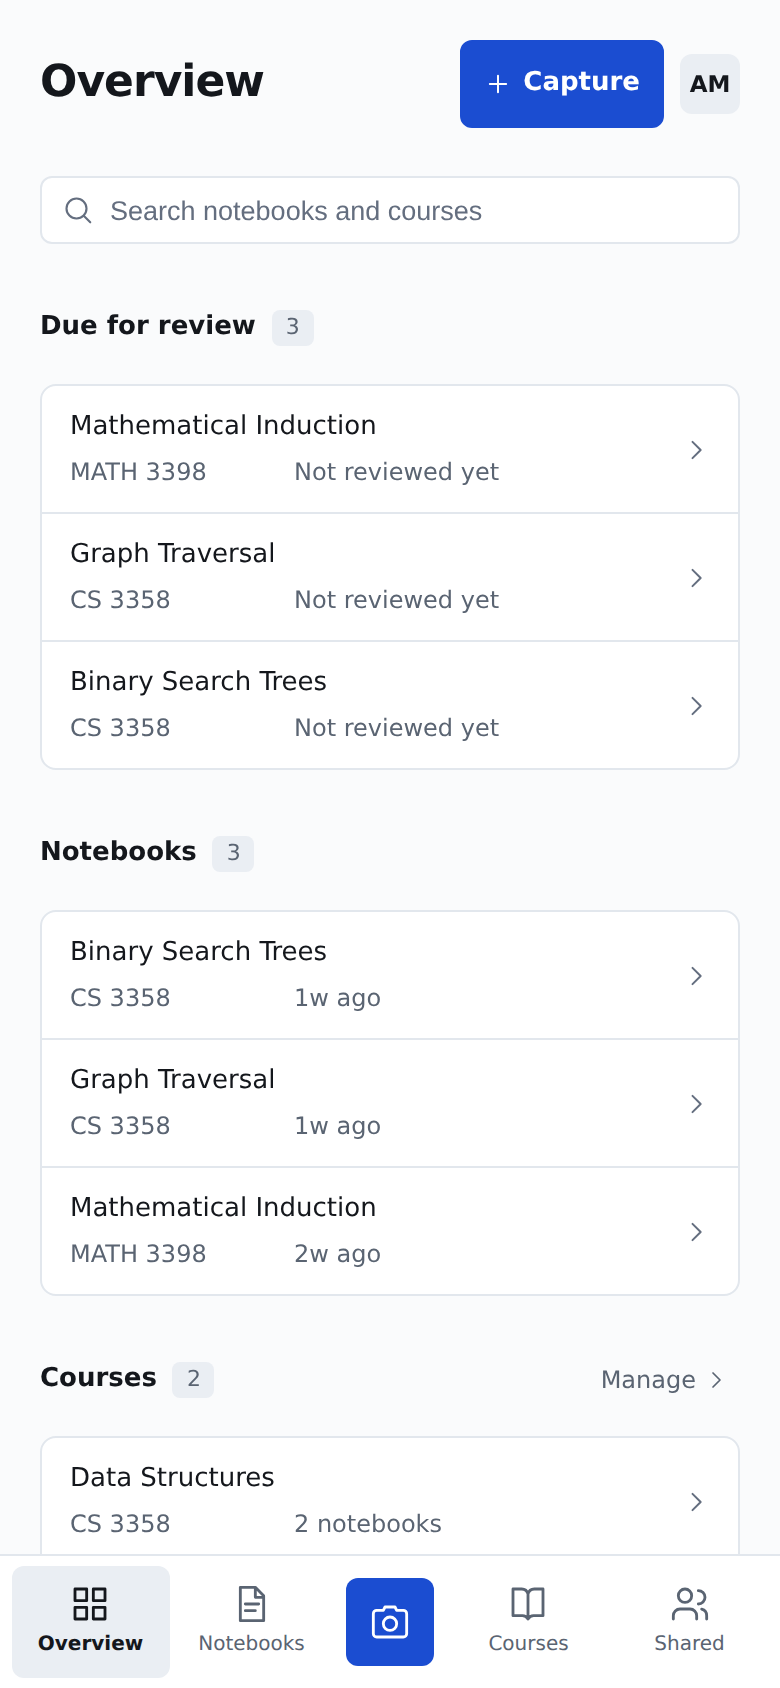
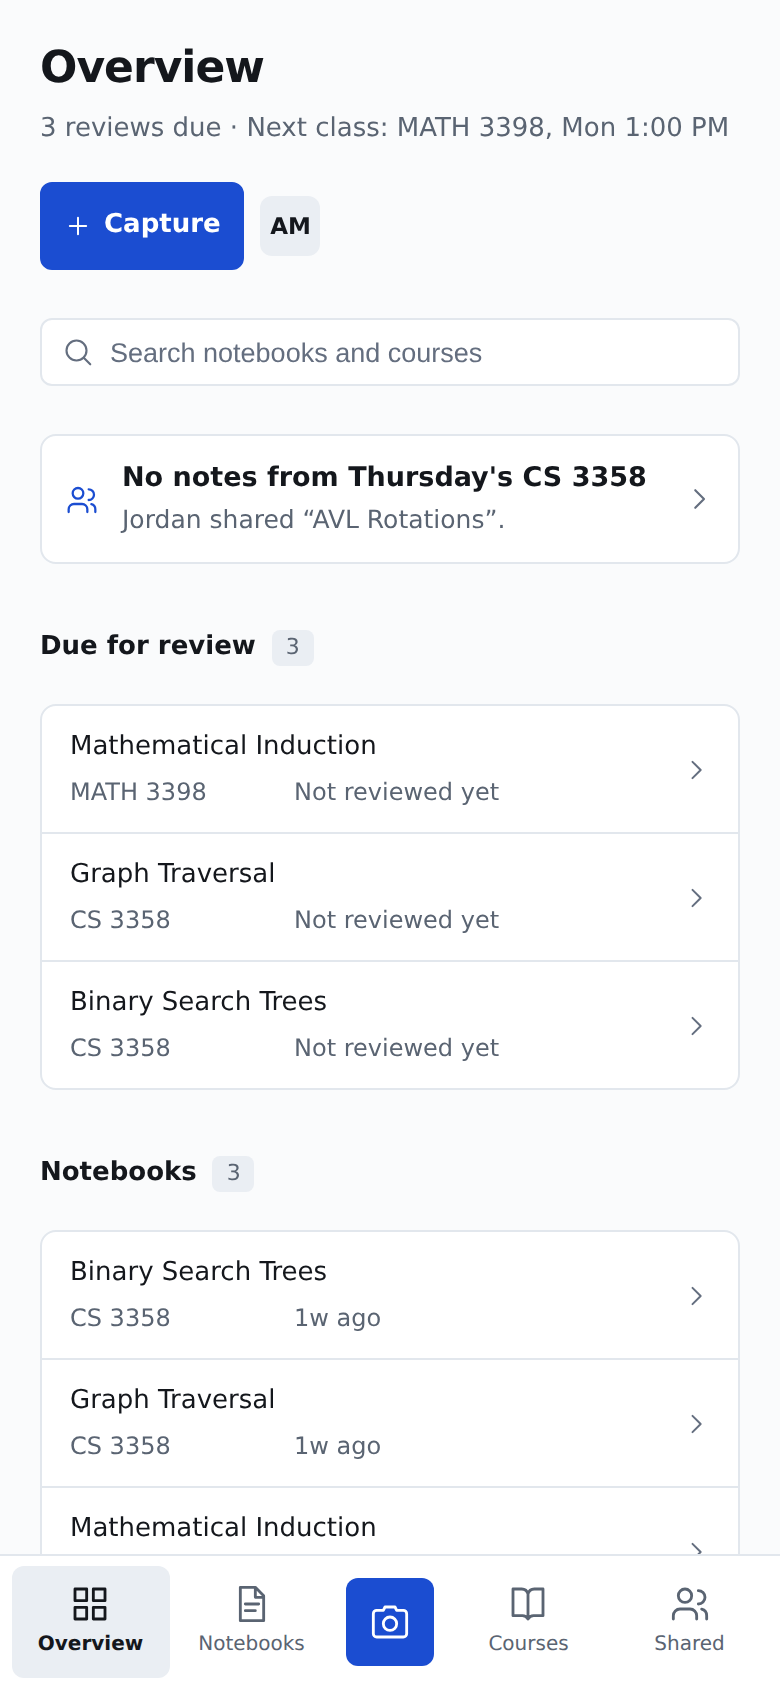
docs: record the study-feature contracts, verification and new screenshots
- SHARED_CONTRACTS.md: note sources, note editing, class times, catch-up
  gaps, quiz attempts, reminders, and the new demo data, all approved as
  additive and optional.
- VERIFICATION.md: what was checked here (tests, local PostgreSQL, browser
  walkthroughs, three time zones), what still needs a device or the live API,
  and the pre-existing hydration warning on desktop Overview.
- README: features, test coverage and roadmap updated; screenshots and the
  demo GIF re-recorded to show photo links, catch-up and the today line.

diff --git a/README.md b/README.md
@@ -62,9 +62,11 @@ These are results on 60 claims I held back and didn't look at while building the
 ## Features
 
 - **Capture:** camera with blur and exposure checks. Up to six photos per lecture, analyzed together into one set of notes.
-- **Notebooks:** your originals stay separate from anything the AI wrote. You can test yourself before revealing the notes.
-- **Ask and quiz:** ask questions about a lecture or generate a quiz from it.
-- **Review:** after each review you say how well you remembered it, and it schedules the next one for 4 hours, 1 day or 3 days later.
+- **Auto-filing:** add when each class meets, and photos taken during class go straight into that course.
+- **Notebooks:** your originals stay separate from anything the AI wrote. Every note line links to the photo it came from, and you can fix anything the AI misread.
+- **Ask and quiz:** ask questions about a lecture or generate a quiz from it. Your scores are saved, you can retry just the questions you missed, and a quiz counts as a review.
+- **Review:** test yourself before the notes are shown, then say how well you remembered. The next review is 4 hours, 1 day or 3 days later, and the phone app reminds you when it's due.
+- **Catch-up:** see which classes this week you have no notes from, and what your friends shared from them.
 - **Sharing:** add friends and share a notebook with them. Only accepted friends in the same course can see it, and they can save their own copy.
 - **Accounts:** email confirmation, sign-in, password reset, profiles, courses and enrollment.
 - **Demo mode:** a filled-in demo so you can try it without any accounts or cloud setup.
@@ -176,8 +178,9 @@ The test suite covers:
 
 - Signed-token rejection, request validation, access gates, and safe errors
 - Upload recovery and session races
-- Review scheduling and capture-quality checks
-- AI result validation, multi-photo analysis, and transcript support checking
+- Review scheduling, reminder timing, and capture-quality checks
+- AI result validation, multi-photo analysis, transcript support checking, and linking notes to photos
+- Class-time detection across time zones, weekly catch-up, and quiz scoring
 - Ambiguous course matching
 
 **Database isolation tests** run against a disposable local PostgreSQL database, using the restricted runtime login. They are skipped unless you pass the URL explicitly:
@@ -220,8 +223,9 @@ chalkwise/
 - [x] Friend-based notebook sharing
 - [x] AWS backend with Cognito, RLS-protected PostgreSQL, and private S3
 - [ ] Live AWS provisioning and Supabase cutover
+- [x] Review reminders, editable notes linked to their photos, class-time filing, weekly catch-up, and saved quizzes
 - [ ] Durable resume after the app closes, and background processing
-- [ ] Review notifications
+- [ ] A review schedule fitted to real review history (the model and fitting script are ready; it needs pilot data)
 
 ## Documentation
 

diff --git a/SHARED_CONTRACTS.md b/SHARED_CONTRACTS.md
@@ -40,6 +40,41 @@ adapter. See `docs/architecture/FULL_STACK_PLAN.md` for scope and verification g
 - Mock mode opens a populated demo workspace. Mock profile/enrollment changes are
   in-memory only. Mock capture uploads and AI calls still reject, never fake success.
 
+### Study features (September 2026, approved)
+
+Migration `server/migrations/003_study_features.sql` is additive and not applied
+anywhere yet. Every new type field is optional, so existing callers are unchanged.
+
+- **Note sources.** `Lecture.sources` / `LectureAnalysis.sources` (`NoteSources`) give,
+  for each line of keyConcepts, importantPoints, assignments and examMentions, the
+  1-based original photo it came from, or null. The server computes them by matching
+  each line against each photo's transcript (`sourcePhotoOf` in `src/lib/grounding.ts`).
+  The AI result contract is unchanged, and the organizer cannot supply sources.
+  Misaligned sources are dropped, never guessed.
+- **Editing.** `updateLecture(id, LectureEdit)` → PUT /v1/lectures/:id, owner only.
+  It sets `Lecture.editedAt`. Originals are never modified. Copies keep sources and the
+  original photo order.
+- **Class times.** `CourseMeeting { courseId, weekday (0 = Sunday), start, end }` in
+  local "HH:MM". `getMeetings()` → GET /v1/meetings. `setCourseMeetings(courseId,
+  meetings)` → PUT /v1/courses/:id/meetings replaces one course's times and requires
+  enrollment. A capture is filed under the class in session (10 minutes before to 30
+  minutes after) when the board shows no matching course code.
+- **Catch-up.** `getCatchupFeed()` also returns `gaps`: classes in the past seven days
+  with none of the student's own notes, and friends' shared notes from them. The wording
+  is "no notes from", never "missed".
+- **Quizzes.** `QuizAttempt { id, lectureId, attemptedAt, score, total, missed }`.
+  `recordQuizAttempt` → POST and `getQuizAttempts` → GET /v1/lectures/:id/quiz-attempts,
+  owner only and append-only. A full quiz on an owned notebook records a review
+  (all correct: easy; 60% or more: good; otherwise again). Retakes and retries of
+  missed questions are practice and record nothing.
+- **Reminders.** `expo-notifications` schedules local notifications on iOS and Android
+  only, opt-in, between 9:00 and 21:00, grouped within an hour, at most 30. There is no
+  push server or device token. Tapping a reminder opens its notebook.
+- **Demo data.** Mock mode now returns two bundled sample board photos for the Binary
+  Search Trees notebook (so `getMaterials` is no longer always empty in mock), sample
+  class times, and one read-only demo classmate note dated to the latest Data Structures
+  class. Mock AI calls still reject.
+
 The sections below are the preserved legacy Supabase implementation contracts.
 
 Read this file before frontend or backend work. These are the current contracts,

diff --git a/docs/architecture/VERIFICATION.md b/docs/architecture/VERIFICATION.md
@@ -43,3 +43,39 @@ This is an implemented small-pilot foundation with automated regression checks, 
 The current processing flow handles one photo. Multi-photo processing, durable capture recovery after process termination, background notifications and hardware pairing are deferred. AI output is validated structurally and prompted to stay within the source; model accuracy still needs evaluation against representative student material.
 
 Complete the live isolation test, cloud acceptance, dependency review, backup/restore rehearsal and physical-device checklist before inviting real users onto the new backend.
+
+## Study features (September 2026)
+
+Reminders, editable notes linked to photos, class-time filing, weekly catch-up and saved
+quizzes.
+
+Verified in this environment:
+
+- `npm run check`: typecheck of app and server, 65 app and 49 server tests, formatting.
+- Database tests against disposable local PostgreSQL 16 with migrations 001–003 and
+  the restricted runtime login. They cover owner-only class times, note edits and quiz
+  attempts, and repository round-trips for sources, edits, class times and attempts.
+- Web demo in Chromium at phone and desktop width, light and dark: note-to-photo chips,
+  the photo viewer, editing and saving notes, the class-times editor with loosely typed
+  times, the Overview catch-up card, CatchUp "This week", copying a classmate note, the
+  Profile reminders setting, and the Overview today line. No console errors, except the
+  known hydration warning below.
+- Planner, schedule and catch-up logic tested in UTC, America/Chicago and Asia/Kolkata.
+
+Still needs manual verification:
+
+- **Reminders on a device.** Permission prompt, delivery at the planned time, the
+  Android channel, and tapping a reminder while the app is closed or open. The web build
+  has no scheduled notifications. A native build is needed because `app.json` gained
+  the `expo-notifications` plugin.
+- **Quiz history and quiz-to-review** against the live API with Gemini. Mock mode
+  deliberately cannot generate quizzes, so this path is covered by API and unit tests
+  only.
+- **Note sources from real captures.** The matcher is unit-tested on sample
+  transcripts; check the photo links on a few real multi-photo sessions.
+- **Camera "in class now" label** on a device during a scheduled class.
+
+Known, pre-existing: the static web export logs React hydration error #418 on the
+Overview at desktop widths. It also occurs on the code before this work (checked at
+`7ff3c8d`). The likely cause is the shell choosing its layout from the window width,
+which differs between prerender and the browser.
